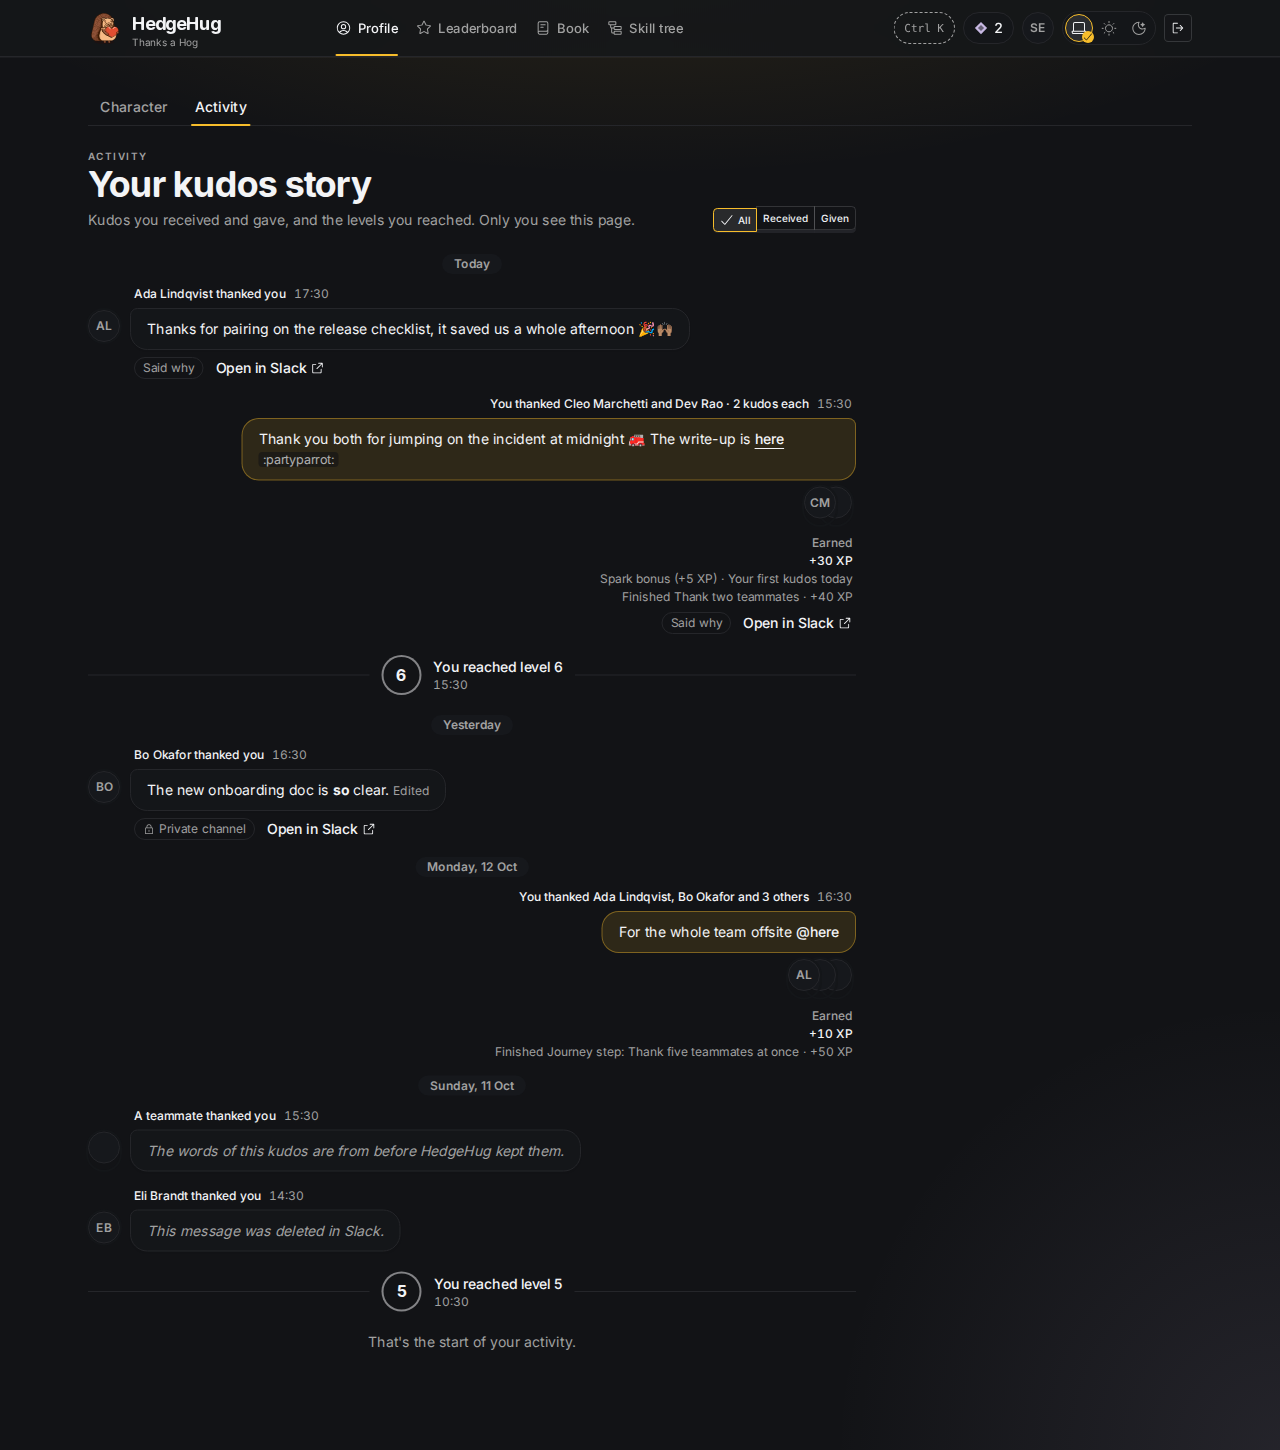
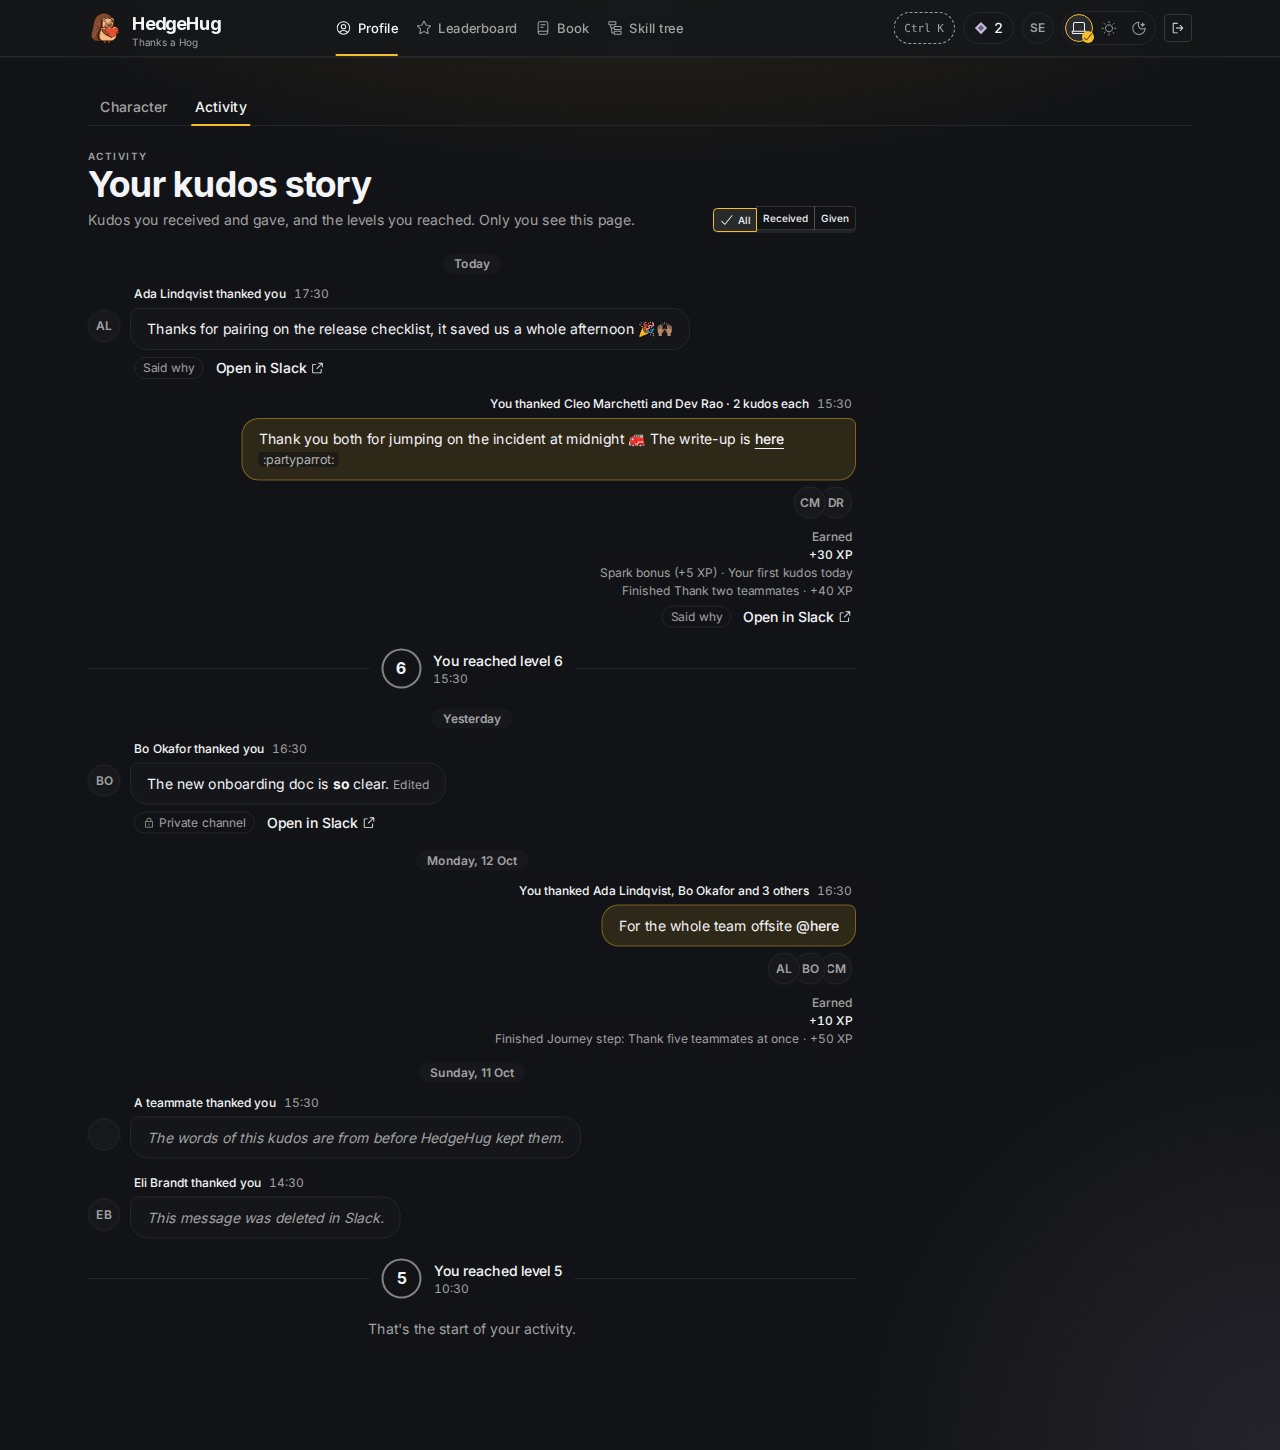
Keep stacked initials readable and refresh the proof (#409)
A 6 px overlap keeps each stacked face's initials clear. Screenshots
in light, dark and 390 px, and one of a kudos to three recipients.

diff --git a/website/src/activity/People.tsx b/website/src/activity/People.tsx
@@ -19,7 +19,7 @@ export function Faces({ people }: { people: Person[] }) {
   return (
     <span className="flex shrink-0">
       {shown.map((person, index) => (
-        <span key={index} data-testid="person-face" className={`relative rounded-full ring-2 ring-card ${index === 0 ? "" : "-ml-4"}`} style={{ zIndex: shown.length - index }}>
+        <span key={index} data-testid="person-face" className={`relative rounded-full ring-2 ring-card ${index === 0 ? "" : "-ml-1.5"}`} style={{ zIndex: shown.length - index }}>
           <MemberFace face={person.face} className="size-8" />
         </span>
       ))}

diff --git a/website/proof/activity-chat/README.md b/website/proof/activity-chat/README.md
@@ -6,6 +6,7 @@ From the fixture build (`VITE_SHELL_FIXTURE=member-with-every-feature-open`, `/a
 - `green.txt`: the same tests passing after it.
 - `timeline-light.png`, `timeline-dark.png`: 1280 px wide.
 - `timeline-phone-light.png`: 390 px wide; no horizontal overflow, every bubble column at most 80% of the row.
+- `three-recipients-light.png`: a kudos to five teammates, its three stacked faces each with their own initials (`red-faces.txt`: blank behind the first before the change). The overlap is 6 px, so the initials stay readable.
 
 The screenshot browser had no emoji font, so a proof-only `@font-face` (Noto Color Emoji, served locally) was injected into the page before each capture. The app ships no font.
 
